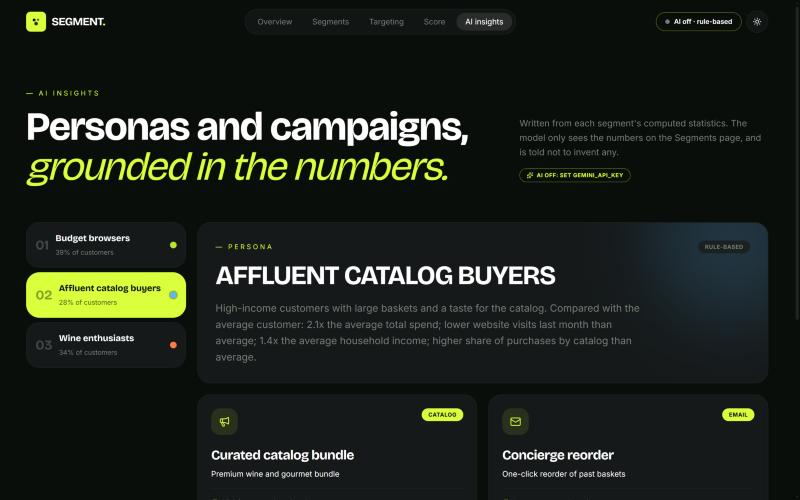
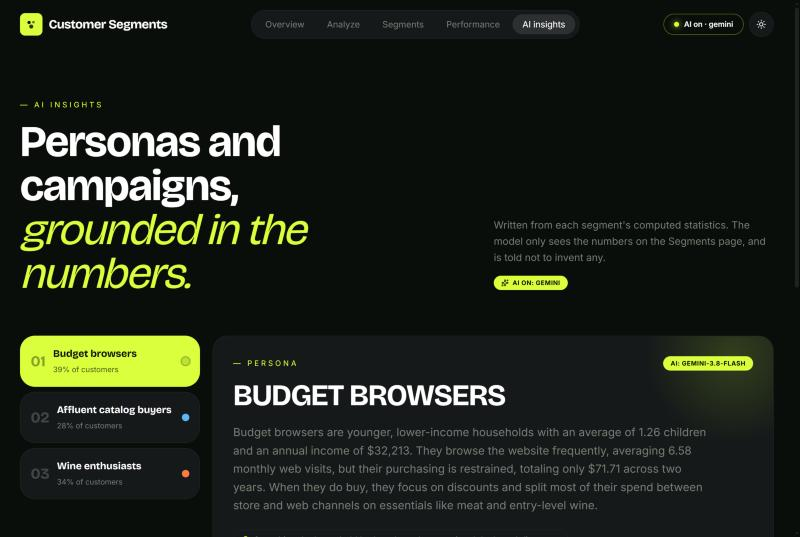
feat: Gemini fallback model, AI on by default with a key, header fits narrow screens

diff --git a/frontend/src/components/Layout.tsx b/frontend/src/components/Layout.tsx
@@ -37,7 +37,7 @@ function Logo() {
           <circle cx="10" cy="13.5" r="3.2" fill="#0a0e0a" fillOpacity=".85" />
         </svg>
       </div>
-      <span className="font-display text-lg font-bold tracking-tight md:text-xl">
+      <span className="font-display text-lg font-bold tracking-tight whitespace-nowrap md:text-xl">
         Customer Segments
       </span>
     </Link>
@@ -65,7 +65,7 @@ export default function Layout({ children }: { children: ReactNode }) {
 
           <nav
             aria-label="Main"
-            className="hidden items-center gap-1 rounded-full border border-line bg-surface px-1.5 py-1.5 md:flex"
+            className="hidden items-center gap-1 rounded-full border border-line bg-surface px-1.5 py-1.5 lg:flex"
           >
             {NAV.map(({ to, label }) => (
               <NavLink
@@ -73,7 +73,7 @@ export default function Layout({ children }: { children: ReactNode }) {
                 to={to}
                 end={to === '/'}
                 className={({ isActive }) =>
-                  `relative rounded-full px-4 py-1.5 text-sm transition-colors ${isActive ? 'text-ink' : 'text-mute hover:text-ink'}`
+                  `relative rounded-full px-4 py-1.5 text-sm whitespace-nowrap transition-colors ${isActive ? 'text-ink' : 'text-mute hover:text-ink'}`
                 }
               >
                 {({ isActive }) => (
@@ -111,7 +111,7 @@ export default function Layout({ children }: { children: ReactNode }) {
               onClick={() => setMenuOpen((o) => !o)}
               aria-label={menuOpen ? 'Close menu' : 'Open menu'}
               aria-expanded={menuOpen}
-              className="grid size-10 place-items-center rounded-full border border-line bg-surface md:hidden"
+              className="grid size-10 place-items-center rounded-full border border-line bg-surface lg:hidden"
             >
               {menuOpen ? <X className="size-4" /> : <Menu className="size-4" />}
             </button>
@@ -126,7 +126,7 @@ export default function Layout({ children }: { children: ReactNode }) {
               animate={{ opacity: 1, y: 0 }}
               exit={{ opacity: 0, y: -8 }}
               transition={{ duration: 0.18 }}
-              className="relative mx-5 rounded-3xl border border-line bg-surface p-2 shadow-2xl md:hidden"
+              className="relative mx-5 rounded-3xl border border-line bg-surface p-2 shadow-2xl lg:hidden"
             >
               {NAV.map(({ to, label }) => (
                 <NavLink

diff --git a/customer_segmentation/llm/providers/gemini.py b/customer_segmentation/llm/providers/gemini.py
@@ -1,17 +1,26 @@
-"""Google Gemini adapter (`google-genai` SDK). Config: GEMINI_API_KEY, LLM_MODEL."""
+"""
+Google Gemini adapter (`google-genai` SDK). Config: GEMINI_API_KEY, LLM_MODEL, LLM_FALLBACK_MODEL.
+
+If the main model fails (timeout, overload, server error), the request is retried once on the
+fallback model before the caller drops back to rule-based text.
+"""
 
 import json
+import logging
 from typing import Any
 
 from customer_segmentation.llm.contracts import LLMError, LLMNotConfigured
 
+log = logging.getLogger(__name__)
+
 DEFAULT_MODEL = "gemini-3.8-flash"
+DEFAULT_FALLBACK = "gemini-3.5-flash"
 
 
 class GeminiProvider:
     name = "gemini"
 
-    def __init__(self, api_key: str, model: str = "", timeout_s: float = 30.0):
+    def __init__(self, api_key: str, model: str = "", timeout_s: float = 30.0, fallback_model: str | None = None):
         if not api_key:
             raise LLMNotConfigured("set GEMINI_API_KEY to enable AI insights")
         try:
@@ -21,9 +30,11 @@ class GeminiProvider:
             raise LLMNotConfigured("install google-genai") from e
         self._types = types
         self.model = model or DEFAULT_MODEL
+        fallback = DEFAULT_FALLBACK if fallback_model is None else fallback_model
+        self.fallback_model = fallback if fallback and fallback != self.model else ""
         self.client = genai.Client(api_key=api_key, http_options=types.HttpOptions(timeout=int(timeout_s * 1000)))
 
-    def complete_json(self, *, system: str, user: str, schema: dict[str, Any]) -> dict[str, Any]:
+    def _call(self, model: str, system: str, user: str, schema: dict[str, Any]) -> dict[str, Any]:
         config = self._types.GenerateContentConfig(
             system_instruction=system,
             response_mime_type="application/json",
@@ -31,9 +42,20 @@ class GeminiProvider:
             temperature=0.4,
         )
         try:
-            resp = self.client.models.generate_content(model=self.model, contents=user, config=config)
+            resp = self.client.models.generate_content(model=model, contents=user, config=config)
             return json.loads(resp.text or "")
         except json.JSONDecodeError as e:
-            raise LLMError("Gemini returned invalid JSON") from e
+            raise LLMError(f"{model} returned invalid JSON") from e
         except Exception as e:  # SDK and network errors all degrade the same way
-            raise LLMError(f"Gemini request failed: {type(e).__name__}") from e
+            raise LLMError(f"{model} request failed: {type(e).__name__}") from e
+
+    def complete_json(self, *, system: str, user: str, schema: dict[str, Any]) -> dict[str, Any]:
+        self.last_model = self.model
+        try:
+            return self._call(self.model, system, user, schema)
+        except LLMError as first:
+            if not self.fallback_model:
+                raise
+            log.warning("%s; retrying on %s", first, self.fallback_model)
+            self.last_model = self.fallback_model
+            return self._call(self.fallback_model, system, user, schema)

diff --git a/customer_segmentation/llm/insights.py b/customer_segmentation/llm/insights.py
@@ -77,6 +77,10 @@ class InsightsService:
     def ai_available(self) -> bool:
         return self.provider is not None
 
+    def _model_used(self) -> str:
+        """The model that answered the last request (the fallback, if it was needed)."""
+        return getattr(self.provider, "last_model", None) or getattr(self.provider, "model", "")
+
     def _ask(self, system: str, user: str, schema: dict) -> dict | None:
         if self.provider is None:
             return None
@@ -92,7 +96,7 @@ class InsightsService:
             return self._persona_cache[sid]
         data = self._ask(PERSONA_SYSTEM, persona_prompt(segment, population), PERSONA_SCHEMA)
         if data is not None:
-            result = {**data, "source": "llm", "model": getattr(self.provider, "model", "")}
+            result = {**data, "source": "llm", "model": self._model_used()}
             self._persona_cache[sid] = result  # cache only real answers so a later retry can succeed
             return result
         return {**self._persona_fallback(segment), "source": "rule-based", "model": ""}
@@ -100,13 +104,13 @@ class InsightsService:
     def explain_score(self, score: dict) -> dict[str, Any]:
         data = self._ask(EXPLAIN_SYSTEM, explain_prompt(score), EXPLAIN_SCHEMA)
         if data is not None:
-            return {**data, "source": "llm", "model": getattr(self.provider, "model", "")}
+            return {**data, "source": "llm", "model": self._model_used()}
         return {**self._explain_fallback(score), "source": "rule-based", "model": ""}
 
     def campaign_brief(self, context: dict) -> dict[str, Any]:
         data = self._ask(BRIEF_SYSTEM, brief_prompt(context), BRIEF_SCHEMA)
         if data is not None:
-            return {**data, "source": "llm", "model": getattr(self.provider, "model", "")}
+            return {**data, "source": "llm", "model": self._model_used()}
         return {**self._brief_fallback(context), "source": "rule-based", "model": ""}
 
     @staticmethod

diff --git a/tests/unit/test_llm.py b/tests/unit/test_llm.py
@@ -79,3 +79,32 @@ def test_gemini_errors_become_llm_errors():
     for models in (_StubModels(text="not json"), _StubModels(error=OSError("offline"))):
         with pytest.raises(LLMError):
             _gemini_with(models).complete_json(system="s", user="u", schema={})
+
+
+def test_gemini_retries_once_on_the_fallback_model():
+    import pytest
+
+    from customer_segmentation.llm.contracts import LLMError
+
+    class FlakyModels:
+        def __init__(self):
+            self.calls = []
+
+        def generate_content(self, **kwargs):
+            self.calls.append(kwargs["model"])
+            if len(self.calls) == 1:
+                raise TimeoutError("slow")
+            return type("Resp", (), {"text": '{"ok": 1}'})()
+
+    flaky = FlakyModels()
+    provider = _gemini_with(flaky)
+    assert provider.complete_json(system="s", user="u", schema={}) == {"ok": 1}
+    assert flaky.calls == [provider.model, provider.fallback_model]
+    assert provider.last_model == provider.fallback_model
+
+    no_fallback = build_provider(Settings(_env_file=None, gemini_api_key="k", llm_fallback_model=""))
+    no_fallback.client = type("Client", (), {"models": _StubModels(error=OSError("down"))})()
+    with pytest.raises(LLMError):
+        no_fallback.complete_json(system="s", user="u", schema={})
+    same = build_provider(Settings(_env_file=None, gemini_api_key="k", llm_model="x", llm_fallback_model="x"))
+    assert same.fallback_model == ""

diff --git a/customer_segmentation/config.py b/customer_segmentation/config.py
@@ -31,8 +31,9 @@ class Settings(BaseSettings):
     # LLM (optional: the app works without a key)
     llm_provider: str = "gemini"
     llm_model: str = ""  # empty -> provider default
+    llm_fallback_model: str | None = None  # None -> provider default; empty -> no fallback
     gemini_api_key: str = ""
-    llm_timeout_s: float = 30.0
+    llm_timeout_s: float = 20.0  # per attempt; a slow model then falls back once
 
     # API
     frontend_dist: Path = Path("frontend/dist")  # built web app served at / when present

diff --git a/customer_segmentation/llm/providers/__init__.py b/customer_segmentation/llm/providers/__init__.py
@@ -7,5 +7,5 @@ from customer_segmentation.llm.contracts import LLMProvider
 from customer_segmentation.llm.providers.gemini import GeminiProvider
 
 PROVIDERS: dict[str, Callable[[Settings], LLMProvider]] = {
-    "gemini": lambda s: GeminiProvider(s.gemini_api_key, s.llm_model, s.llm_timeout_s),
+    "gemini": lambda s: GeminiProvider(s.gemini_api_key, s.llm_model, s.llm_timeout_s, s.llm_fallback_model),
 }

diff --git a/README.md b/README.md
@@ -49,6 +49,8 @@ The evaluation covers leakage (label shuffling), robustness to noise, directiona
 | --- | --- |
 | ![Segments](docs/screenshots/segments.jpg) | ![Performance](docs/screenshots/performance.jpg) |
 
+![AI personas written from the segment statistics](docs/screenshots/insights.jpg)
+
 ## Which data works
 
 The models learned from one retailer, so they work best on similar data: consumer retail customers, one row per customer, spend by category and purchases by channel, and responses to direct-marketing offers. They are not meant for business-to-business, subscription, banking or insurance data, or for any decision with legal effect. The app shows this guidance on the upload page and flags uploads that look unlike the training data.
